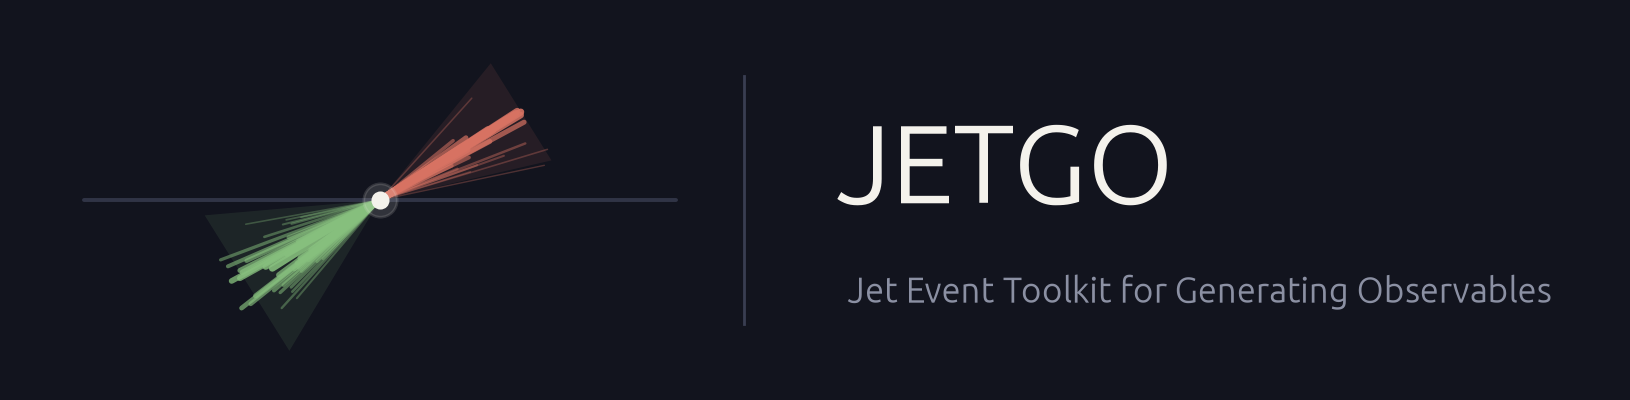
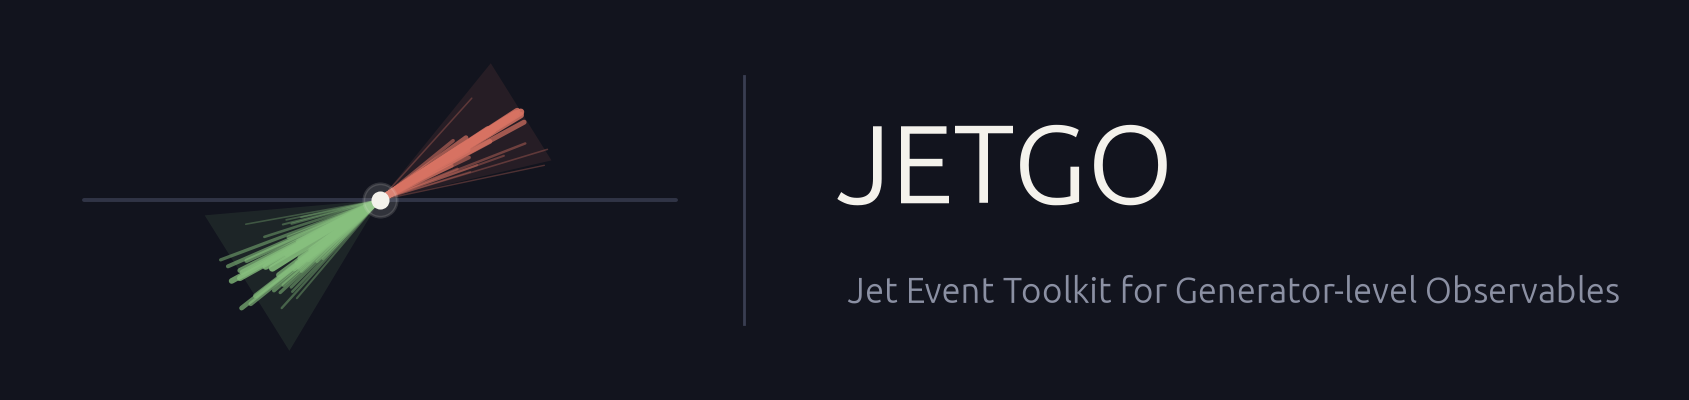
JETGO now expands to Jet Event Toolkit for Generator-level Observables
"Generating Observables" asked one verb to do two jobs: you generate events,
but observables are computed from them. Generator-level is the field's own
term and is exactly what the package produces, with no detector simulation
anywhere.

Updated in the banner, pyproject, CITATION.cff and the docs landing page. The
package description no longer says generator-level twice.

diff --git a/images/make_banner.py b/images/make_banner.py
@@ -36,7 +36,7 @@ QUARK = "#D87363"
 GLUON = "#87C07E"
 BEAM = "#4A5068"
 
-WIDTH, HEIGHT = 8.15, 2.0
+WIDTH, HEIGHT = 8.45, 2.0
 OUT = Path(__file__).resolve().parent
 
 # The jet axis, and its recoil partner exactly opposite it.
@@ -112,7 +112,7 @@ ax.plot([3.72, 3.72], [0.38, HEIGHT - 0.38], color=BEAM, linewidth=1.0, alpha=0.
 # --- the wordmark ------------------------------------------------------------------------------
 ax.text(4.18, vy + 0.19, "JETGO", fontproperties=WORDMARK, color=PAPER, ha="left", va="center")
 
-ax.text(4.24, vy - 0.45, "Jet Event Toolkit for Generating Observables",
+ax.text(4.24, vy - 0.45, "Jet Event Toolkit for Generator-level Observables",
         fontproperties=TAGLINE, color=MUTED, ha="left", va="center")
 
 fig.subplots_adjust(left=0, right=1, top=1, bottom=0)

diff --git a/docs/index.rst b/docs/index.rst
@@ -1,7 +1,7 @@
 jetgo
 =====
 
-*Jet Event Toolkit for Generating Observables.*
+*Jet Event Toolkit for Generator-level Observables.*
 
 ``jetgo`` generates collider events with `pythia8mc <https://pypi.org/project/pythia8mc/>`_,
 clusters the particles into jets with `fastjet <https://pypi.org/project/fastjet/>`_, tags each jet
